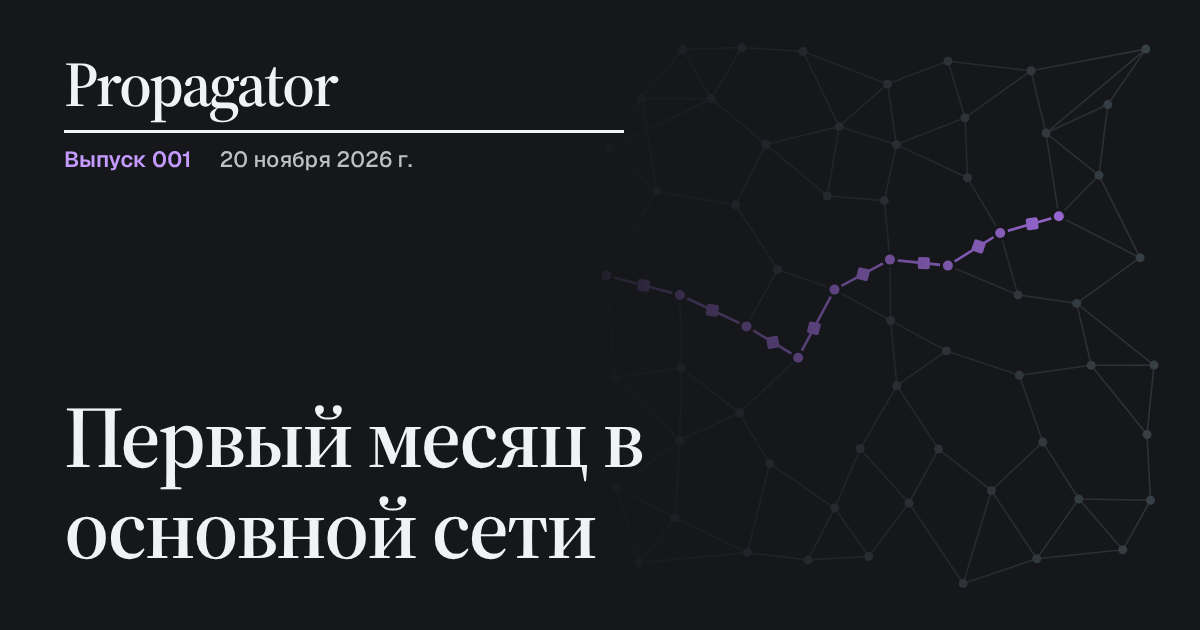
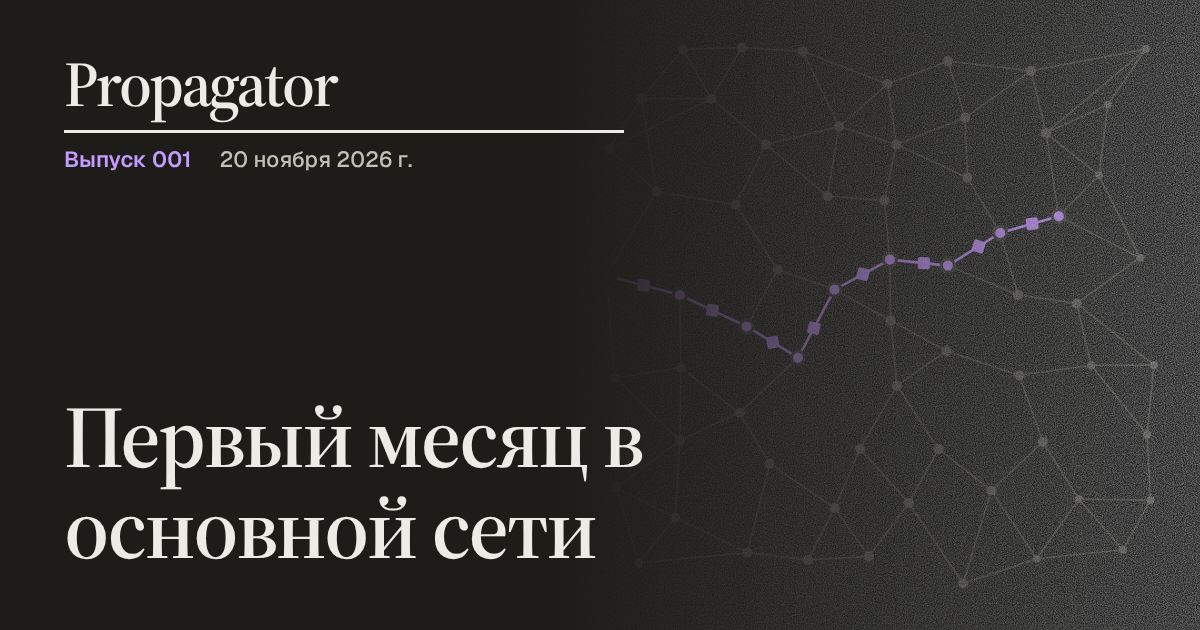
Own identity: stone paper, warm ink and petrol, serif reading text; art with wavefront, glow and grain; cover art above the cover lines; violet kept for mump2p data only

Changed region(s): [[0.5858, 0.0, 1.0, 1.0]]

diff --git a/public/assets/site.css b/public/assets/site.css
@@ -1,17 +1,20 @@
 /* Propagator. Palette from Optimum's own slate scale; violet marks the mump2p path and nothing else loud. */
 :root {
-  --bg: #f0f2f4; --surface: #ffffff; --ink: #16181a; --muted: #474e55; --soft: #5c6670; --line: #d3dbe2; --line-2: #bcc0c3;
-  --accent: #6b2fc4; --pkt: #a463f2; --pkt-soft: rgba(164, 99, 242, .14); --gossip: #8d9ca9; --ok: #1f7a4d; --warn: #a15c07;
-  --radius: 14px; --radius-s: 8px; --max: 1200px; --gut: 24px;
+  /* Propagator's own paper: a stone newsprint, warm black ink, and a deep petrol for the masthead and links.
+     Violet is not ours: it marks the mump2p path in data, as Optimum does, and nothing else. */
+  --bg: #ecebe6; --surface: #f7f6f2; --ink: #1b1a17; --muted: #48463f; --soft: #64615a; --line: #d7d4cb; --line-2: #bdb9ae;
+  --accent: #0b5a63; --mump: #6b2fc4; --pkt: #a463f2; --pkt-soft: rgba(164, 99, 242, .14); --gossip: #8f8b82; --ok: #186a42; --warn: #9a5506;
+  --radius: 12px; --radius-s: 8px; --max: 1200px; --gut: 24px;
   --sans: 'Geist', ui-sans-serif, system-ui, -apple-system, 'Segoe UI', sans-serif; --mono: 'Geist Mono', ui-monospace, SFMono-Regular, Menlo, monospace;
+  --art-bg: #1d1c19;
   color-scheme: light;
 }
 @media (prefers-color-scheme: dark) { :root:not([data-theme="light"]) {
-  --bg: #16181a; --surface: #1e2124; --ink: #f0f2f4; --muted: #bcc0c3; --soft: #8d9ca9; --line: #2c3135; --line-2: #3a4146;
-  --accent: #c59bff; --pkt: #b87cff; --pkt-soft: rgba(184, 124, 255, .16); --gossip: #6a757f; --ok: #6fd39a; --warn: #f0b360; color-scheme: dark; } }
+  --bg: #141412; --surface: #1c1b18; --ink: #ecebe6; --muted: #c4c0b6; --soft: #9a968c; --line: #2c2b27; --line-2: #3e3c37;
+  --accent: #6cc6cb; --mump: #c59bff; --pkt: #b87cff; --pkt-soft: rgba(184, 124, 255, .16); --gossip: #6f6c65; --ok: #6fd39a; --warn: #f0b360; --art-bg: #0e0e0c; color-scheme: dark; } }
 :root[data-theme="dark"] {
-  --bg: #16181a; --surface: #1e2124; --ink: #f0f2f4; --muted: #bcc0c3; --soft: #8d9ca9; --line: #2c3135; --line-2: #3a4146;
-  --accent: #c59bff; --pkt: #b87cff; --pkt-soft: rgba(184, 124, 255, .16); --gossip: #6a757f; --ok: #6fd39a; --warn: #f0b360; color-scheme: dark; }
+  --bg: #141412; --surface: #1c1b18; --ink: #ecebe6; --muted: #c4c0b6; --soft: #9a968c; --line: #2c2b27; --line-2: #3e3c37;
+  --accent: #6cc6cb; --mump: #c59bff; --pkt: #b87cff; --pkt-soft: rgba(184, 124, 255, .16); --gossip: #6f6c65; --ok: #6fd39a; --warn: #f0b360; --art-bg: #0e0e0c; color-scheme: dark; }
 
 * { box-sizing: border-box; }
 html { -webkit-text-size-adjust: 100%; text-size-adjust: 100%; }
@@ -31,7 +34,7 @@ main { max-width: var(--max); margin: 0 auto; padding: 0 var(--gut) 64px; }
 .top-in { max-width: var(--max); margin: 0 auto; padding: 10px var(--gut); display: flex; align-items: center; gap: 24px; }
 .brand { display: flex; align-items: center; gap: 10px; text-decoration: none; min-width: 0; }
 .pmark { width: 26px; height: 26px; fill: var(--ink); flex: none; }
-.pmark .pmark-b { fill: var(--pkt); }
+.pmark .pmark-b { fill: var(--accent); }
 .brand-name { font-weight: 700; font-size: 19px; letter-spacing: -0.03em; }
 .brand-tag { font-size: 13px; color: var(--soft); white-space: nowrap; overflow: hidden; text-overflow: ellipsis; }
 .nav { display: flex; gap: 2px; margin-left: auto; }
@@ -56,7 +59,7 @@ main { max-width: var(--max); margin: 0 auto; padding: 0 var(--gut) 64px; }
 
 /* buttons, chips */
 .btn { display: inline-flex; align-items: center; gap: 8px; font: 600 15px/1 var(--sans); padding: 12px 18px; border-radius: 11px; background: var(--ink); color: var(--bg); text-decoration: none; border: 1px solid var(--ink); cursor: pointer; }
-.btn:hover { background: color-mix(in srgb, var(--ink) 86%, var(--pkt)); }
+.btn:hover { background: color-mix(in srgb, var(--ink) 84%, var(--accent)); }
 .btn-ghost { background: transparent; color: var(--ink); border-color: var(--line-2); }
 .btn-ghost:hover { background: var(--surface); }
 .actions { display: flex; flex-wrap: wrap; gap: 10px; margin: 22px 0 0; }
@@ -82,7 +85,7 @@ main { max-width: var(--max); margin: 0 auto; padding: 0 var(--gut) 64px; }
 .race-lanes { display: grid; gap: 14px; }
 .lane { display: grid; grid-template-columns: 96px 1fr 96px; align-items: center; gap: 16px; }
 .lane-name { font: 500 14px var(--mono); color: var(--muted); }
-.lane-m .lane-name { color: var(--accent); }
+.lane-m .lane-name { color: var(--mump); }
 .lane-track { position: relative; height: 54px; border-radius: 10px; background: var(--surface); box-shadow: inset 0 0 0 1px var(--line); overflow: hidden; }
 .lane-track canvas { position: absolute; inset: 0; width: 100%; height: 100%; }
 .lane-end { position: absolute; top: 6px; bottom: 6px; left: calc(var(--x) - 1px); width: 2px; border-radius: 2px; background: var(--line-2); opacity: 0; transition: opacity .3s; }
@@ -90,7 +93,7 @@ main { max-width: var(--max); margin: 0 auto; padding: 0 var(--gut) 64px; }
 .lane-m .lane-end { background: var(--pkt); }
 .lane-ms { font: 500 15px var(--mono); color: var(--soft); text-align: right; font-variant-numeric: tabular-nums; }
 .lane-ms b { font-size: 22px; font-weight: 500; color: var(--ink); }
-.lane-m .lane-ms b { color: var(--accent); }
+.lane-m .lane-ms b { color: var(--mump); }
 .race-cap { font-size: 14.5px; color: var(--soft); margin: 14px 0 0 112px; max-width: 76ch; }
 @media (max-width: 640px) {
   .lane { grid-template-columns: 1fr auto; gap: 6px 12px; }
@@ -140,7 +143,7 @@ main { max-width: var(--max); margin: 0 auto; padding: 0 var(--gut) 64px; }
 .m-val { margin: 0; display: flex; align-items: baseline; gap: 6px; }
 .m-val b { font: 500 clamp(30px, 3.6vw, 42px)/1.1 var(--mono); letter-spacing: -0.04em; font-variant-numeric: tabular-nums; }
 .m-val span { font: 500 15px var(--mono); color: var(--soft); }
-.metric[data-k="spread"] .m-val b, .metric[data-k="accel"] .m-val b { color: var(--accent); }
+.metric[data-k="spread"] .m-val b, .metric[data-k="accel"] .m-val b { color: var(--mump); }
 .m-sub { font-size: 13.5px; color: var(--soft); margin: 4px 0 0; }
 @media (max-width: 760px) { .metrics { grid-template-columns: 1fr 1fr; } .metric, .metric + .metric { padding: 14px 12px 12px 0; border-left: 0; } .metric:nth-child(even) { padding-left: 14px; border-left: 1px solid var(--line); } }
 /* builders */
@@ -196,7 +199,7 @@ main { max-width: var(--max); margin: 0 auto; padding: 0 var(--gut) 64px; }
 .toc { position: sticky; top: 80px; align-self: start; padding-top: 40px; }
 .toc ol { list-style: none; margin: 0; padding: 0; border-left: 1px solid var(--line); }
 .toc a { display: block; padding: 5px 0 5px 14px; margin-left: -1px; font-size: 14.5px; color: var(--muted); text-decoration: none; border-left: 2px solid transparent; }
-.toc a:hover, .toc a.on { color: var(--ink); border-left-color: var(--pkt); }
+.toc a:hover, .toc a.on { color: var(--ink); border-left-color: var(--accent); }
 @media (max-width: 960px) { .issue-body { grid-template-columns: 1fr; gap: 0; } .toc { display: none; } }
 .issue-main { min-width: 0; max-width: 820px; }
 .prose p { font-size: 18px; line-height: 1.65; max-width: 68ch; }
@@ -224,8 +227,8 @@ main { max-width: var(--max); margin: 0 auto; padding: 0 var(--gut) 64px; }
 .reads li span { font-size: 14px; color: var(--soft); }
 .quote { margin: 48px 0 0; padding: 28px 0 0; border-top: 1px solid var(--line); }
 .quote blockquote { margin: 0; font-size: clamp(22px, 2.8vw, 30px); line-height: 1.35; letter-spacing: -0.02em; font-weight: 500; max-width: 30ch; }
-.quote blockquote::before { content: '“'; color: var(--pkt); }
-.quote blockquote::after { content: '”'; color: var(--pkt); }
+.quote blockquote::before { content: '“'; color: var(--accent); }
+.quote blockquote::after { content: '”'; color: var(--accent); }
 .quote figcaption { margin-top: 12px; font-size: 15px; color: var(--soft); }
 .pager { display: flex; justify-content: space-between; gap: 16px; margin-top: 48px; padding-top: 18px; border-top: 1px solid var(--line); font-size: 15px; }
 
@@ -363,7 +366,7 @@ section[id], article[id], div[id] { scroll-margin-top: 80px; }
 .tldr .kicker { margin-bottom: 6px; }
 .tldr ul { margin: 0; padding-left: 20px; }
 .tldr li { margin: 6px 0; line-height: 1.55; }
-.tldr li::marker { color: var(--pkt); }
+.tldr li::marker { color: var(--accent); }
 
 /* events */
 .events { list-style: none; margin: 0; padding: 0; border-top: 1px solid var(--line); }
@@ -478,9 +481,7 @@ h1, h2, h3 { font-weight: 600; letter-spacing: -0.012em; }
 .about h2 { font-size: 24px; }
 
 /* editorial art: one always dark panel style for every story, so the issue reads as one illustrated series */
-.art { display: block; width: 100%; height: auto; border-radius: 10px; --a-bg: #15171a; --a-ink: #f0f2f4; --a-soft: #8d9ca9; --a-line: #2f353a; --a-violet: #b87cff; --a-violet-2: #8a4ee0; --a-warn: #f0b360; }
-:root[data-theme="dark"] .art { --a-bg: #0d0f11; }
-@media (prefers-color-scheme: dark) { :root:not([data-theme="light"]) .art { --a-bg: #0d0f11; } }
+.art { display: block; width: 100%; height: auto; border-radius: 10px; --a-bg: var(--art-bg); --a-ink: #f0f2f4; --a-soft: #8d9ca9; --a-line: #2f353a; --a-violet: #b87cff; --a-violet-2: #8a4ee0; --a-warn: #f0b360; }
 .art .a-bg { fill: var(--a-bg); }
 .art .a-edge { stroke: var(--a-line); stroke-width: 1.6; fill: none; }
 .art .a-hot { stroke: var(--a-violet); stroke-width: 2.6; fill: none; stroke-linecap: round; }
@@ -497,7 +498,7 @@ h1, h2, h3 { font-weight: 600; letter-spacing: -0.012em; }
 .art .a-label { font: 500 26px var(--sans); fill: var(--a-soft); }
 .art .a-val { font-size: 40px; font-weight: 600; fill: var(--a-soft); }
 .art .a-val-hot { fill: var(--a-ink); }
-.art .a-val-on-hot { fill: #15171a; }
+.art .a-val-on-hot { fill: var(--a-bg); }
 .art .a-val-on-gossip { fill: #f0f2f4; }
 .art .a-halo { stroke: var(--a-bg); stroke-width: 18; stroke-linejoin: round; fill: var(--a-bg); }
 .art .a-delta { font-size: 56px; font-weight: 600; fill: var(--a-violet); }
@@ -505,11 +506,11 @@ h1, h2, h3 { font-weight: 600; letter-spacing: -0.012em; }
 .art .a-arrow-up { stroke: var(--a-violet); }
 .art .a-arrow-down { stroke: var(--a-violet); }
 .art .a-ver { font: 600 30px var(--mono); fill: var(--a-soft); }
-.art .a-ver-cur { fill: #15171a; }
+.art .a-ver-cur { fill: var(--a-bg); }
 .art .a-glyph { font: 700 34px var(--sans); }
 .art .a-glyph-no { fill: #6a757f; }
 .art .a-glyph-up { fill: var(--a-warn); }
-.art .a-glyph-current { fill: #15171a; }
+.art .a-glyph-current { fill: var(--a-bg); }
 .art .a-warn-box { fill: none; stroke: var(--a-warn); stroke-width: 2.5; }
 .art .a-strike { stroke: #6a757f; stroke-width: 2; }
 .art .a-block { fill: none; stroke: #4a545c; stroke-width: 2; }
@@ -524,12 +525,12 @@ h1, h2, h3 { font-weight: 600; letter-spacing: -0.012em; }
 @media (max-width: 760px) { .story.has-art { grid-template-columns: 1fr; } .story.has-art:nth-child(even) .story-art { order: 0; } .story-art { margin: 0 0 16px; } }
 
 /* cover: the title is set on the cover art */
-.cover-on-art { position: relative; border-radius: 14px; overflow: hidden; background: #15171a; color: #f0f2f4; min-height: 660px; display: flex; align-items: flex-end; }
+.cover-on-art { position: relative; border-radius: 14px; overflow: hidden; background: var(--art-bg); color: #f0f2f4; min-height: 660px; display: flex; align-items: flex-end; }
 .cover-on-art .art-cover { position: absolute; inset: 0; width: 100%; height: 100%; border-radius: 0; }
-.cover-on-art .cover-text { position: relative; padding: 170px 40px 36px; background: linear-gradient(to top, rgba(21, 23, 26, .97) 68%, rgba(21, 23, 26, 0)); width: 100%; }
+.cover-on-art .cover-text { position: relative; padding: 170px 40px 36px; background: linear-gradient(to top, color-mix(in srgb, var(--art-bg) 97%, transparent) 66%, transparent); width: 100%; }
 .cover-on-art h1 { color: #f0f2f4; }
 .cover-on-art .dek { color: #c3cad1; }
-.cover-on-art .btn { background: #f0f2f4; color: #15171a; border-color: #f0f2f4; }
+.cover-on-art .btn { background: #ecebe6; color: #1b1a17; border-color: #ecebe6; }
 .cover-on-art .btn-ghost { background: transparent; color: #f0f2f4; border-color: rgba(240, 242, 244, .4); }
 .cover-on-art .btn-ghost:hover { background: rgba(240, 242, 244, .1); }
 .cover-on-art :focus-visible { outline-color: #c59bff; }
@@ -540,3 +541,34 @@ h1, h2, h3 { font-weight: 600; letter-spacing: -0.012em; }
 :lang(ru) .cover h1, :lang(uk) .cover h1, :lang(vi) .cover h1, :lang(id) .cover h1 { font-size: clamp(40px, 5.8vw, 84px); max-width: 14ch; }
 :root[data-theme="dark"] .cover-on-art, :root[data-theme="dark"] .art { box-shadow: 0 0 0 1px var(--line); }
 @media (prefers-color-scheme: dark) { :root:not([data-theme="light"]) .cover-on-art, :root:not([data-theme="light"]) .art { box-shadow: 0 0 0 1px var(--line); } }
+
+/* art: depth. A wavefront spreads from the source; nodes it reached are lit, the rest wait in the dark */
+.art .a-glow-0 { stop-color: #b87cff; stop-opacity: .2; }
+.art .a-glow-1 { stop-color: #b87cff; stop-opacity: 0; }
+.art .a-grain { opacity: .07; mix-blend-mode: overlay; pointer-events: none; }
+.art .a-ring { fill: none; stroke: var(--a-violet); stroke-width: 1.4; stroke-dasharray: 2 7; }
+.art .a-src { fill: none; stroke: var(--a-violet); stroke-width: 2.4; }
+.art .a-node-hot, .art .a-piece, .art .a-piece-big, .art .a-src { filter: drop-shadow(0 0 7px rgba(184, 124, 255, .75)); }
+.art .a-hot { filter: drop-shadow(0 0 4px rgba(184, 124, 255, .55)); }
+.art .a-gossip { fill: #57534c; }
+.art .a-empty, .art .a-block { stroke: #4a4741; }
+
+/* reading text is set in the serif, the interface in Geist */
+body { font-family: var(--serif); font-size: 18.5px; line-height: 1.62; font-optical-sizing: auto; }
+.top, .foot, .btn, .chip, .tag, .claim, .masthead, .folio, .kicker, .srcs, .byline, .b-meta, .b-by, .b-what, .lane, .race-cap, .metrics, .toc, .langs, .nav, .sub-form, .submit, .form-msg, .a-date, .a-n, .r-names, .r-count, .sec-link, .more, .story-meta, .cover-lines h2, .band h2, .sec-intro, .c-note, .ladder span, .v-head, .v-text, .reads span, .gloss dd, .timeline span, .advisors p, .role, .plinks, .spot-by, .live-line, .actions, .empty, .person p { font-family: var(--sans); }
+.prose p, .story-text > p, .about p, .lsec .prose p { font-size: 19px; line-height: 1.62; }
+.c-claim { font-family: var(--serif); font-size: 19px; }
+.band li { font-size: 17.5px; }
+:lang(ja) body, :lang(zh) body, :lang(ko) body, :lang(hi) body { font-size: 17px; }
+/* base before lit: the wavefront's reach must win */
+.art .a-edge { stroke: #36332e; }
+.art .a-node { fill: #4a463f; }
+.art .a-edge.a-edge-on { stroke: #6a655c; }
+.art .a-node.a-node-on { fill: #e6e2d8; }
+
+/* cover: the art sits on top like a cover photograph, the cover lines below it, nothing overlaps */
+.cover-on-art { display: block; min-height: 0; }
+.cover-on-art .art-cover { position: static; width: 100%; height: auto; aspect-ratio: 16 / 9; border-radius: 0; }
+.cover-on-art .cover-text { background: none; padding: 30px 36px 34px; }
+.cover-on-art h1 { font-size: clamp(42px, 5.6vw, 84px); }
+@media (max-width: 640px) { .cover-on-art .cover-text { padding: 22px 20px 26px; } }
